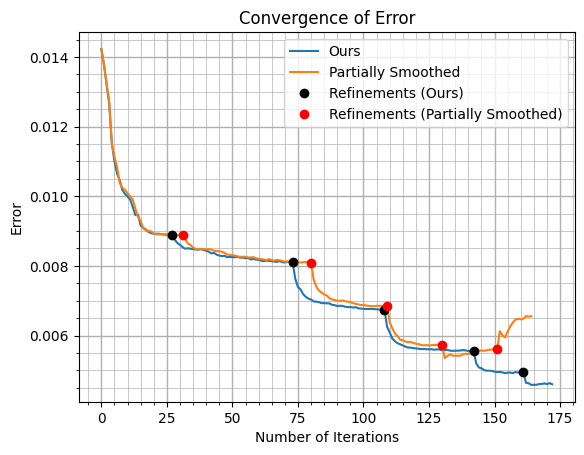
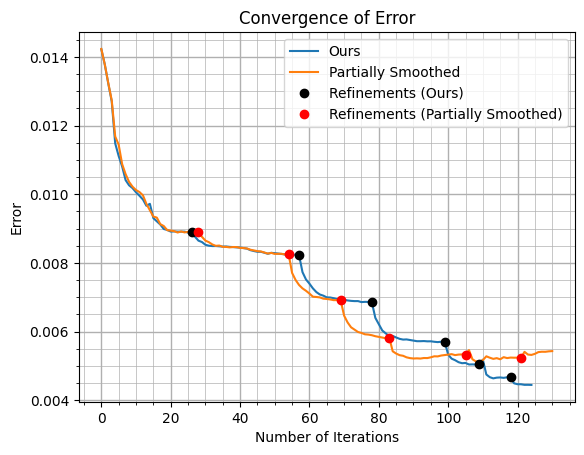
up

Changed region(s): [[0.0308, 0.0923, 0.9863, 0.9538]]

diff --git a/examples/lens_picture_postprocess_new.py b/examples/lens_picture_postprocess_new.py
@@ -267,6 +267,7 @@ def create_2d4x4_plots():
 create_2d4x4_plots()
 # %%
 results_classical_e["results_minimize"][-1].keys()
+
 #%%
 aperture_radius_detector = results_classical_e["settings"]["aperture_radius_detector"]
 #%%
@@ -280,3 +281,74 @@ dit.plotting.quantity2D.plot(discrete_desired_irradiance,"Desired Irradiance [W/
 plt.savefig(results_folder_out + "/discrete_desired_irradiance.png")
 
 # %%
+classical_binned_irradiance = results_classical_e["final_irr_results"]["binned_irradiance"]
+classical_smooth_irradiance = results_classical_e["final_irr_results"]["smooth_irradiance"]
+
+ours_binned_irradiance = results_ours_e["final_irr_results"]["binned_irradiance"]
+ours_smooth_irradiance = results_ours_e["final_irr_results"]["smooth_irradiance"]
+
+
+ours_lens_offset = results_ours_e["lens_offset"]
+classical_lens_offset = results_classical_e["lens_offset"]
+
+
+dit.plotting.quantity2D.plot(ours_binned_irradiance,"ours_binned_irradiance [W/mm²]",[-aperture_radius_detector,aperture_radius_detector],cmap="gray",show=False)
+
+# %%
+aperture_radius_lens = results_classical_e["settings"]["aperture_radius_lens"]
+#%%
+import matplotlib.pyplot as plt
+import matplotlib.gridspec as gridspec
+import torch
+
+font_multi = 1.3
+cbar_labelsize=16
+cbar_title_fontsize=20
+fontsize=cbar_title_fontsize
+
+classical_row = [classical_binned_irradiance[::-1], classical_smooth_irradiance[::-1], classical_lens_offset]
+ours_row = [ours_binned_irradiance[::-1], ours_smooth_irradiance[::-1], ours_lens_offset]
+
+irr_vmin = min(classical_row[0].min(), ours_row[0].min(),classical_row[1].min(), ours_row[1].min())
+irr_vmax = max(classical_row[0].max(), ours_row[0].max(),classical_row[1].max(), ours_row[1].max())
+
+surf_vmin = min(classical_row[2].min(), ours_row[2].min())
+surf_vmax = max(classical_row[2].max(), ours_row[2].max())
+
+columns_vmin = [irr_vmin, irr_vmin, surf_vmin]
+columns_vmax = [irr_vmax, irr_vmax, surf_vmax]
+
+rows = [classical_row, ours_row]
+
+irr_extent = [
+    -aperture_radius_detector, aperture_radius_detector,
+    -aperture_radius_detector, aperture_radius_detector
+]
+
+surf_extent = [-aperture_radius_lens, aperture_radius_lens,-aperture_radius_lens,aperture_radius_lens]
+
+extent_columns = [irr_extent,irr_extent, surf_extent]
+
+irr_cmap_columns = "gray"
+surf_cmap_columns = "jet"
+
+cmap_columns = [irr_cmap_columns, irr_cmap_columns, surf_cmap_columns]
+
+irr_cbar_title = "[W/mm²]"
+surf_cbar_title = "mm"
+
+# Titles corresponding to `irrs`
+column_title1 = "Irradiance RC"
+column_title2 = "Smoothed Irradiance"
+column_title3 = "Surface Profile"
+
+column_titles = [column_title1, column_title2, column_title3]
+
+row_title1 = "Partially Smoothed"
+row_title2 = "Ours"
+
+row_titles = [row_title1, row_title2]
+
+
+
+#%%

diff --git a/examples/sunlight_picture.py b/examples/sunlight_picture.py
@@ -22,13 +22,13 @@ def create_lens(
     lens_material:dit.RefractiveIndex,
     air_material:dit.RefractiveIndex,
     device,
+    sigma:float,
     aperture_radius_source:float=21.,
     aperture_radius_lens:float=25.,
     lens_thickness:float=5.,
     detector_distance:float=150.,
     lens_distance:float=1.0,
     num_refinements:int=5,
-    sigma:float=1.0,
     image_padding:float=0.2,
     bspline_orders:List[int]=[3, 3],
     bspline_ns_start:List[int]=[4, 4],
@@ -152,7 +152,7 @@ def create_lens(
                                     grid_size=grid_size,
                                     sigma=sigma,
                                     desired_irradiance_fun=irr_func,
-                                    smoothed_num_integration_points=2**21,
+                                    smoothed_num_integration_points=2**22,
                                     smoothed_num_splits=10,
                                     device=device)
     
@@ -230,8 +230,9 @@ def create_lens(
         out["smoothed_desired_irradiance"] = smoother.smoothed_desired_irradiance.detach().cpu().numpy()
         out["discrete_desired_irradiance"] = smoother.discrete_desired_irradiance.detach().cpu().numpy()
 
-        merit_func()
-        eval_func()
+        print("last_merit",merit_func(),out["history"]["fun_vals"][-1])
+        print("last_error",eval_func(),convergence_list[-1])
+
         out["smooth_irradiance"] = smoother.last_smoothed_irradiance.detach().cpu().numpy()
         out["binned_irradiance_eval"] = smoother.last_raycounting.detach().cpu().numpy()
 

diff --git a/diffinytrace/gaussian_smoother.py b/diffinytrace/gaussian_smoother.py
@@ -155,8 +155,9 @@ def calc_smooth_desired_irradiance(desired_irradiance_fun:Callable,
             split_weights = splitted_weights[k].to(device=device,dtype=dtype)
             tmp = gaussian_func2D(split_points,x_range,y_range,x_grid_size,y_grid_size,sigma=sigma,val_multi=desired_irradiance_fun(split_points)*split_weights)
             #print("tmp.shape",tmp.shape)
-            out.append(tmp)
-            del split_points, split_weights, tmp
+            out.append(tmp.detach())
+            #del split_points, split_weights
+            gc.collect()
 
     out = torch.sum(torch.stack(out), dim=0)
     del points, weights, splitted_points, splitted_weights

diff --git a/diffinytrace/plotting/quantity2D.py b/diffinytrace/plotting/quantity2D.py
@@ -71,7 +71,6 @@ def plot(val,title="",x_range=None,y_range=None,cmap="jet",subtitle="",title_fon
         if is_tensor(val):
             val = val.detach().cpu().numpy()
     
-    #TODO test Flip y axis!!
     val = val[::-1]
     
     plt.cla()   # Clear axis